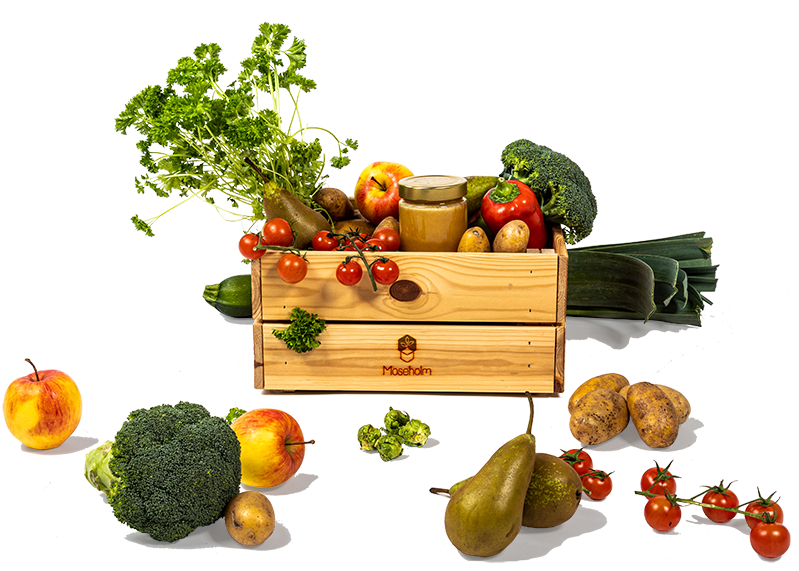
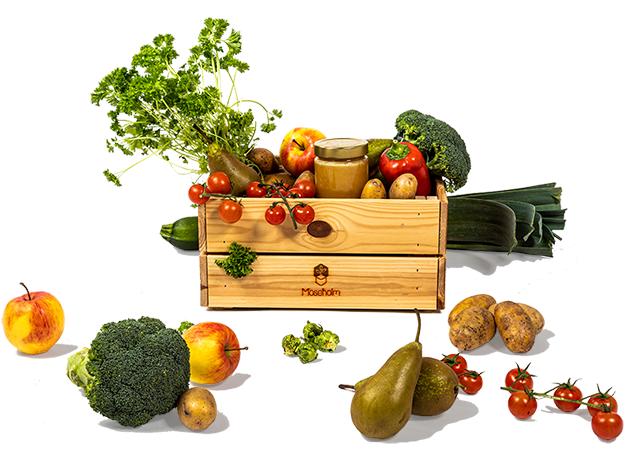
rigtige størrelser billeder

diff --git a/index.php b/index.php
@@ -108,7 +108,7 @@ if(!empty($_POST["data"])){
                 <a class="nav-link text-winter" href="#kas3">Pluk selv <span class="sr-only">(current)</span></a>
             </li>
             <li class="nav-item active">
-                <a class="nav-link text-winter" href="#kas4">Hudpleje kasse <span class="sr-only">(current)</span></a>
+                <a class="nav-link text-winter" href="#kas4">Helse kasse <span class="sr-only">(current)</span></a>
             </li>
             <li class="nav-item active">
                 <a class="nav-link text-winter" href="produkt.html">Produkter <span class="sr-only">(current)</span></a>
@@ -142,13 +142,13 @@ if(!empty($_POST["data"])){
 
                     <div class="col-12 col-md-6 m-auto">
                         <div class="form-group">
-                            <input class="form-control text-primary" type="text" name="username" id="" placeholder="Skriv dit brugernavn" value="">
+                            <input class="form-control text-primary" type="text" name="username" placeholder="Skriv dit brugernavn" value="">
                         </div>
                     </div>
 
                     <div class="col-12 col-md-6 m-auto">
                         <div class="form-group">
-                            <input class="form-control text-primary" type="password" name="password" id="" placeholder="Skriv dit kodeord" value="">
+                            <input class="form-control text-primary" type="password" name="password" placeholder="Skriv dit kodeord" value="">
                         </div>
                     </div>
 
